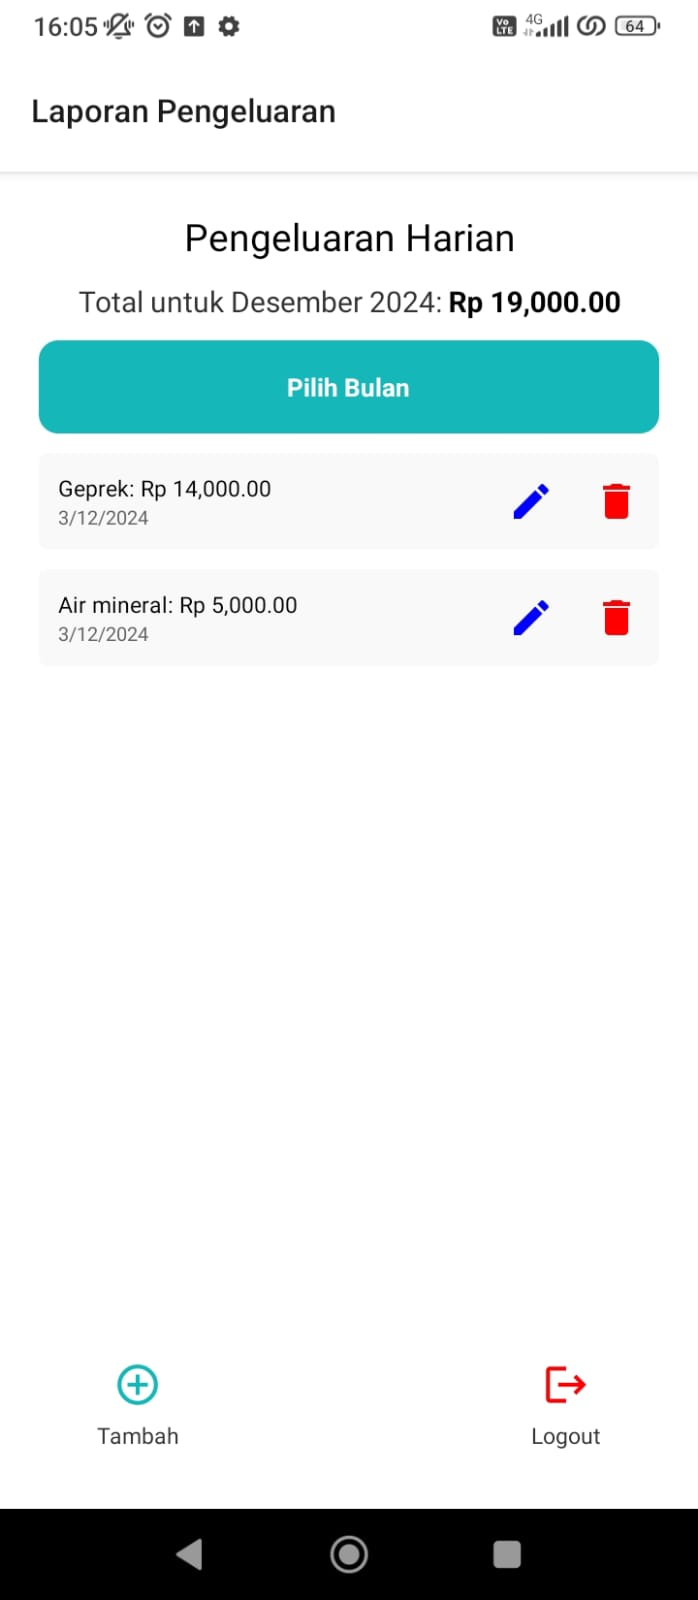
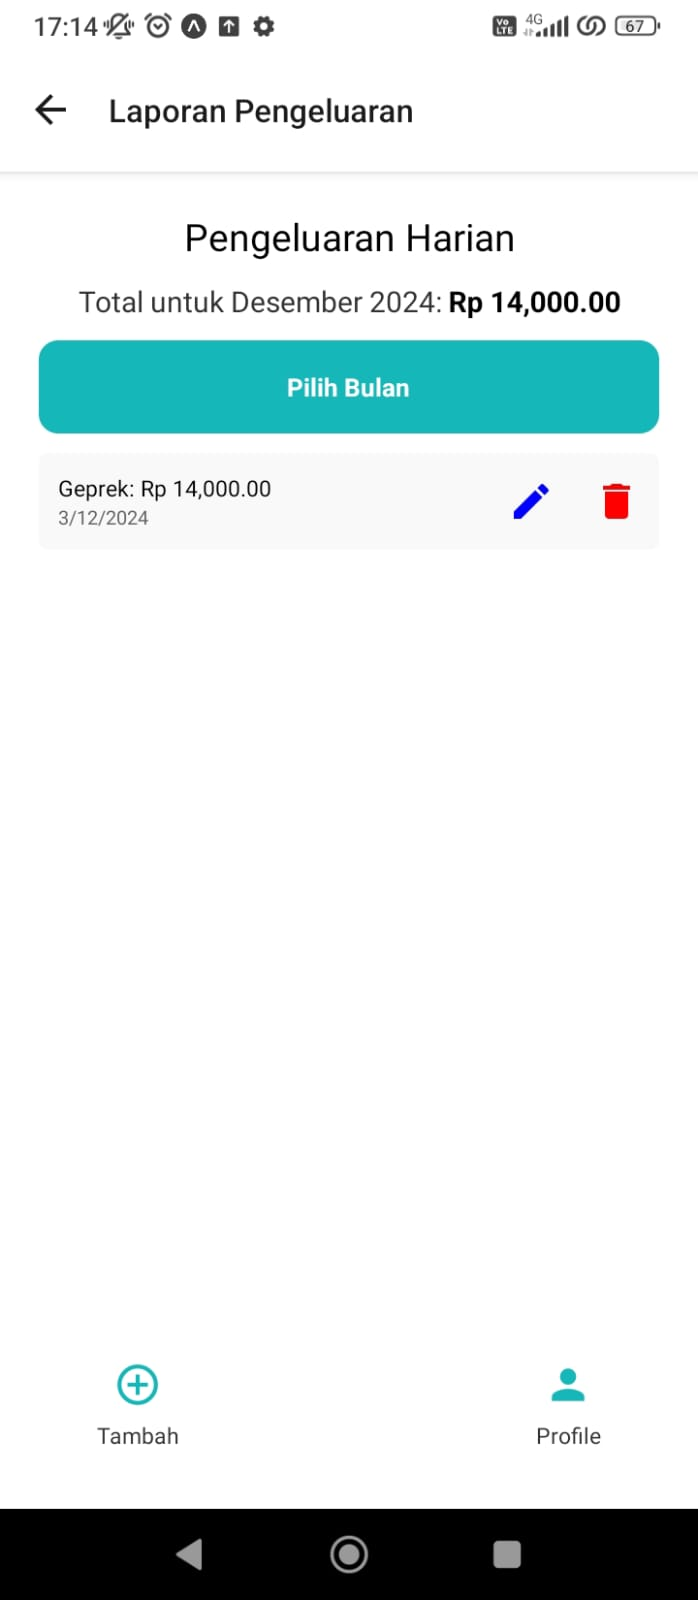
update feature profile

diff --git a/src/screens/SettingsScreen.js b/src/screens/SettingsScreen.js
@@ -1,0 +1,55 @@
+import React, { useState } from "react";
+import { View, Text, StyleSheet } from "react-native";
+import AsyncStorage from "@react-native-async-storage/async-storage";
+import CustomInput from "../components/CustomInput";
+import CustomButton from "../components/CustomeButton";
+
+
+const SettingsScreen = ({ navigation }) => {
+  const [newUsername, setNewUsername] = useState("");
+  const [newPassword, setNewPassword] = useState("");
+
+  const handleLogout = async () => {
+    await AsyncStorage.removeItem("userToken");
+    navigation.replace("Login");
+  };
+
+  const handleSave = async () => {
+    if (newUsername && newPassword) {
+      await AsyncStorage.setItem("username", newUsername);
+      await AsyncStorage.setItem("password", newPassword);
+      alert("Username dan Password berhasil diperbarui!");
+      navigation.goBack();
+    } else {
+      alert("Harap isi username dan password baru.");
+    }
+  };
+
+  return (
+    <View style={styles.container}>
+      <Text style={styles.title}>Ubah Username dan Password</Text>
+      <CustomInput
+        label="Username Baru"
+        value={newUsername}
+        onChangeText={setNewUsername}
+        placeholder="Masukkan Username Baru"
+      />
+      <CustomInput
+        label="Password Baru"
+        value={newPassword}
+        onChangeText={setNewPassword}
+        placeholder="Masukkan Password Baru"
+        secureTextEntry
+      />
+      <CustomButton title="SIMPAN" onPress={handleSave} />
+      <CustomButton backgroundColor="red" title="LOGOUT" onPress={handleLogout} />
+    </View>
+  );
+};
+
+const styles = StyleSheet.create({
+  container: { flex: 1, padding: 20, backgroundColor: "#fff" },
+  title: { fontSize: 20, fontWeight: "bold", marginBottom: 20 },
+});
+
+export default SettingsScreen;

diff --git a/src/screens/HomeScreen.js b/src/screens/HomeScreen.js
@@ -60,10 +60,7 @@ const HomeScreen = ({ navigation }) => {
     }
   };
 
-  const handleLogout = async () => {
-    await AsyncStorage.removeItem("userToken");
-    navigation.replace("Login");
-  };
+
 
   const handleDelete = async (id) => {
     const filteredExpenses = expenses.filter((item, index) => index !== id);
@@ -86,7 +83,11 @@ const HomeScreen = ({ navigation }) => {
           month: "long",
           year: "numeric",
         })}
-        : <Text style={styles.boldText}>Rp {totalMonthlyExpense.toFixed(2).replace(/\d(?=(\d{3})+\.)/g, "$&,")}</Text>
+        :{" "}
+        <Text style={styles.boldText}>
+          Rp{" "}
+          {totalMonthlyExpense.toFixed(2).replace(/\d(?=(\d{3})+\.)/g, "$&,")}
+        </Text>
       </Text>
       <View>
         <CustomButton
@@ -116,7 +117,8 @@ const HomeScreen = ({ navigation }) => {
           <View style={styles.item}>
             <View>
               <Text>
-                {item.category}: Rp {item.amount.toFixed(2).replace(/\d(?=(\d{3})+\.)/g, "$&,")}
+                {item.category}: Rp{" "}
+                {item.amount.toFixed(2).replace(/\d(?=(\d{3})+\.)/g, "$&,")}
               </Text>
               <Text style={styles.date}>
                 {new Date(item.date).toLocaleDateString()}
@@ -158,10 +160,10 @@ const HomeScreen = ({ navigation }) => {
           iconColor="#15B7B9"
         />
         <ActionButton
-          iconName="logout"
-          title="Logout"
-          onPress={handleLogout}
-          iconColor="red"
+          iconName="person"
+          title="Profile"
+          onPress={() => navigation.navigate("Profile")}
+          iconColor="#15B7B9"
         />
       </View>
     </View>

diff --git a/src/screens/ProfileScreen.js b/src/screens/ProfileScreen.js
@@ -1,0 +1,58 @@
+import AsyncStorage from "@react-native-async-storage/async-storage";
+import { useEffect, useState } from "react";
+import { Image, StyleSheet, Text, TouchableOpacity, View } from "react-native";
+import CustomButton from "../components/CustomeButton";
+
+const ProfileScreen = ({ navigation }) => {
+  const [currentUsername, setCurrentUsername] = useState("");
+  useEffect(() => {
+    const fetchUsername = async () => {
+      const savedUsername = await AsyncStorage.getItem("username");
+      setCurrentUsername(savedUsername || "AppReport");
+    };
+    fetchUsername();
+  }, []);
+  return (
+    <View style={styles.container}>
+      <View >
+        <Image
+          source={require("../../assets/user.png")}
+          style={{ width: 100, height: 100, alignSelf: "center" }}
+        />
+        <Text
+          style={{
+            fontSize: 20,
+            fontWeight: "bold",
+            color: "#000",
+            textAlign: "center",
+            marginTop: 10,
+          }}
+        >
+          {currentUsername.toUpperCase()}
+        </Text>
+      </View>
+      <View style={{ marginTop: 20 }}>
+        <CustomButton
+          title="Ubah Username dan Password"
+          onPress={() => navigation.navigate("Settings")}
+        />
+        <CustomButton
+          title="Logout"
+          onPress={() => navigation.replace("Login")}
+          backgroundColor="red"
+        />
+      </View>
+    </View>
+  );
+};
+
+const styles = StyleSheet.create({
+  container: {
+    flex: 1,
+    padding: 20,
+    backgroundColor: "#fff",
+    justifyContent: "space-between",
+  },
+});
+
+export default ProfileScreen;

diff --git a/src/navigation/AppNavigator.js b/src/navigation/AppNavigator.js
@@ -5,6 +5,8 @@ import LoginScreen from '../screens/LoginScreen';
 import HomeScreen from '../screens/HomeScreen';
 import AddExpenseScreen from '../screens/AddExpenseScreen';
 import EditExpense from '../screens/EditExpense';
+import SettingsScreen from '../screens/SettingsScreen';
+import ProfileScreen from '../screens/ProfileScreen';
 
 const Stack = createStackNavigator();
 
@@ -18,6 +20,8 @@ const AppNavigator = () => {
         }} />
         <Stack.Screen name="AddExpense" component={AddExpenseScreen} options={{ title: 'Tambah Pengeluaran' }} />
         <Stack.Screen name="EditExpense" options={{ title: 'Edit Pengeluaran' }} component={EditExpense} />
+        <Stack.Screen name="Settings" component={SettingsScreen} />
+        <Stack.Screen name="Profile" component={ProfileScreen} />
       </Stack.Navigator>
     </NavigationContainer>
   );

diff --git a/src/screens/LoginScreen.js b/src/screens/LoginScreen.js
@@ -11,13 +11,17 @@ const LoginScreen = ({ navigation }) => {
   const [password, setPassword] = useState("");
 
   const handleLogin = async () => {
-    if (username === "erni" && password === "261120") {
+    const storedUsername = (await AsyncStorage.getItem("username")) || "AppReport";
+    const storedPassword = (await AsyncStorage.getItem("password")) || "2024";
+  
+    if (username === storedUsername && password === storedPassword) {
       await AsyncStorage.setItem("userToken", "loggedin");
       navigation.replace("Home");
     } else {
       alert("Username atau Password salah!");
     }
   };
+  
 
   return (
     <View style={styles.container}>

diff --git a/README.md b/README.md
@@ -24,6 +24,12 @@
 - **🔒 Logout**  
   Amankan data Anda dengan fitur logout.  
 
+- **🔐 Login dengan Kredensial Default**
+Masuk menggunakan username AppReport dan password 2024.
+
+- **✏ Ubah Username dan Password**
+Sesuaikan kredensial Anda melalui fitur pengaturan yang aman.
+
 ---
 
 
@@ -41,3 +47,5 @@
 ![App Screenshot](./assets/3.jpeg)
 ![App Screenshot](./assets/4.jpeg)
 ![App Screenshot](./assets/5.jpeg)
+![App Screenshot](./assets/6.jpeg)
+![App Screenshot](./assets/7.jpeg)
